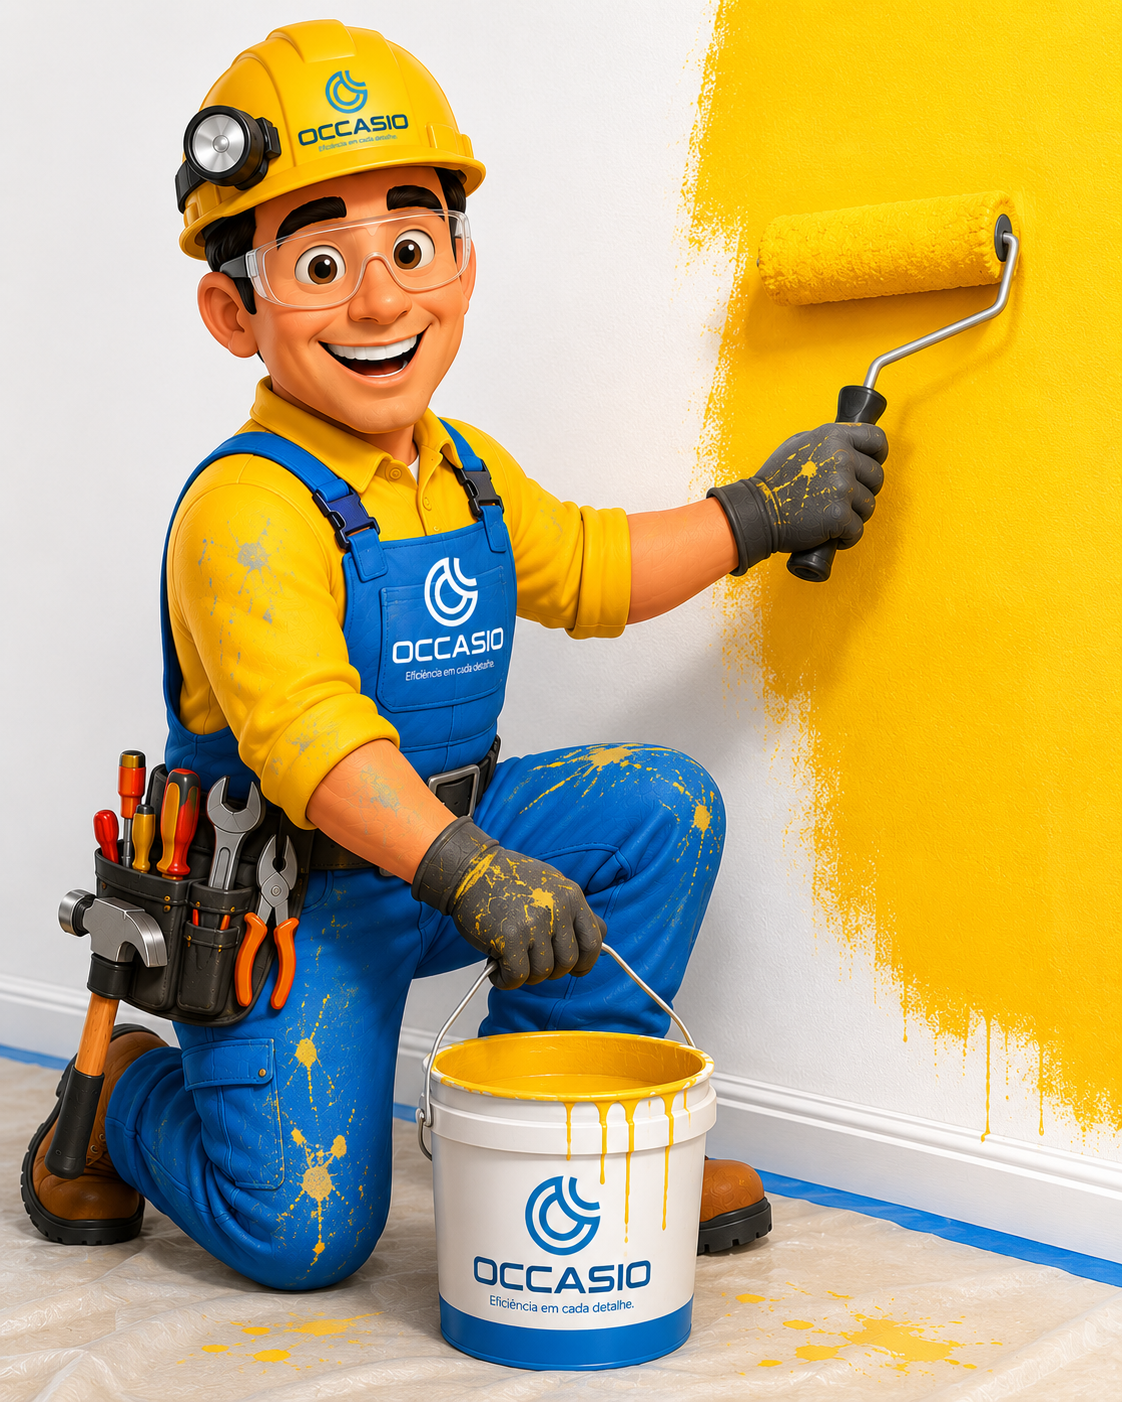
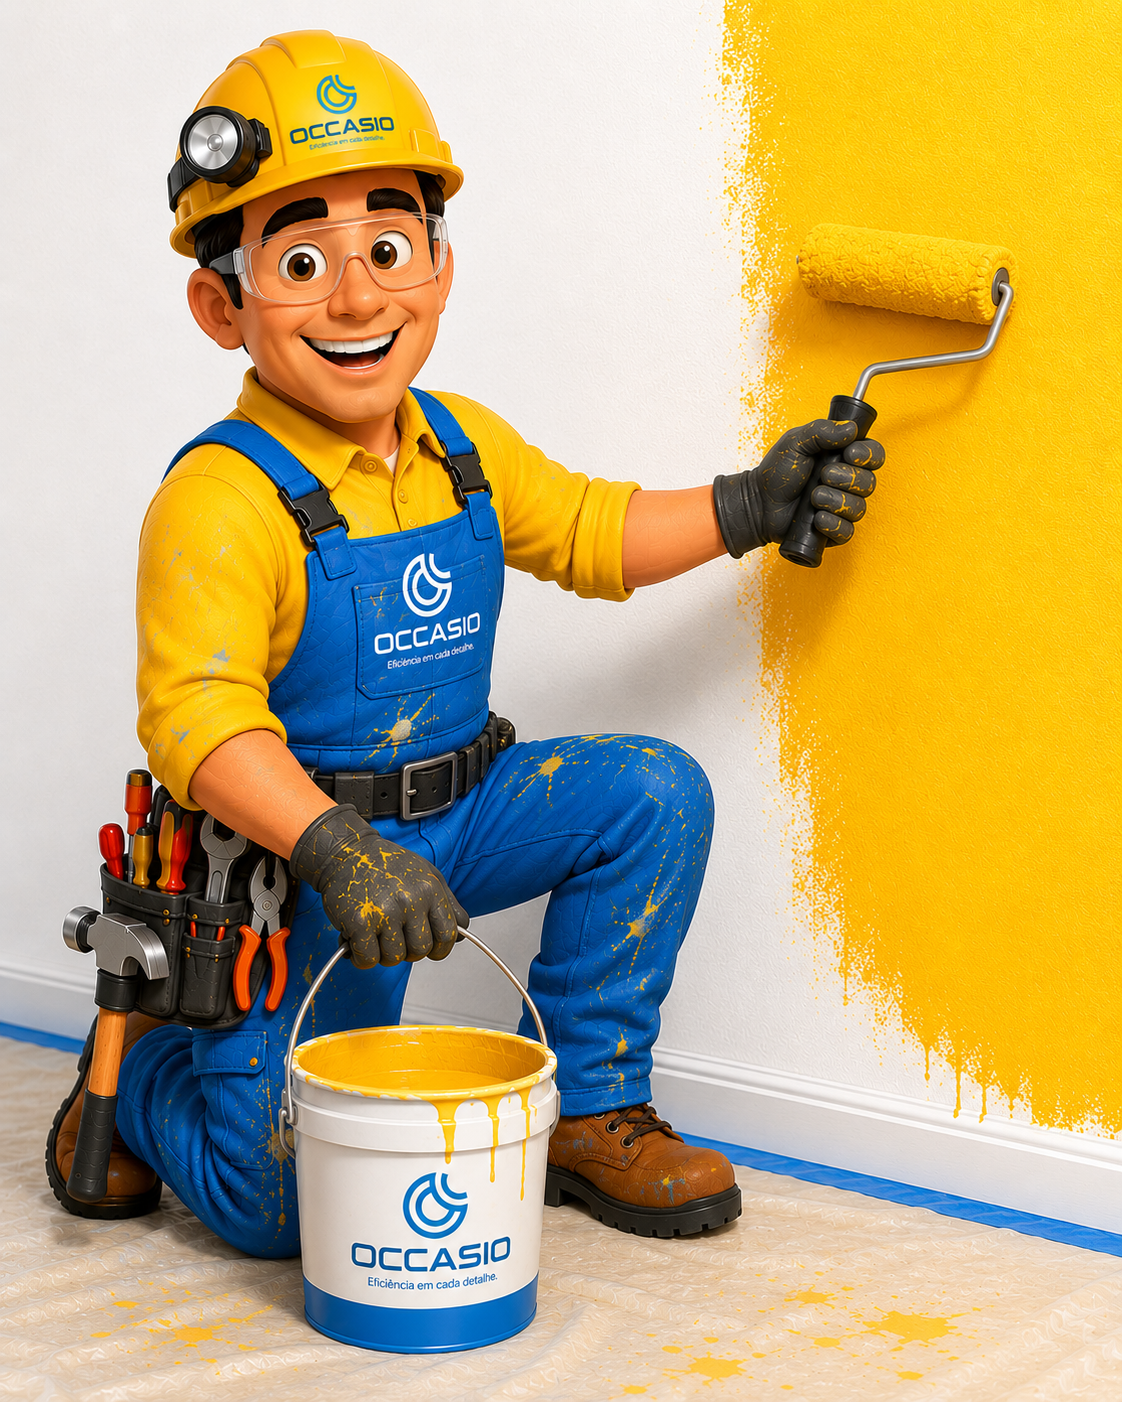
Ajuste na cor de fundo da tela de login para #EAE8E7 e atualizacao da imagem do mascote Personagem6

diff --git a/src/pages/Login.tsx b/src/pages/Login.tsx
@@ -130,7 +130,7 @@ export default function Login() {
   }
 
   return (
-    <div className="min-h-[85vh] bg-white flex flex-col items-center justify-center px-4 py-8 md:py-12 overflow-hidden relative">
+    <div className="min-h-[85vh] bg-[#EAE8E7] flex flex-col items-center justify-center px-4 py-8 md:py-12 overflow-hidden relative">
       {/* Elementos de fundo sutis */}
       <div className="absolute top-10 left-10 w-72 h-72 bg-occasio-blue/5 rounded-full blur-3xl pointer-events-none"></div>
       <div className="absolute bottom-10 right-10 w-96 h-96 bg-yellow-500/5 rounded-full blur-3xl pointer-events-none"></div>